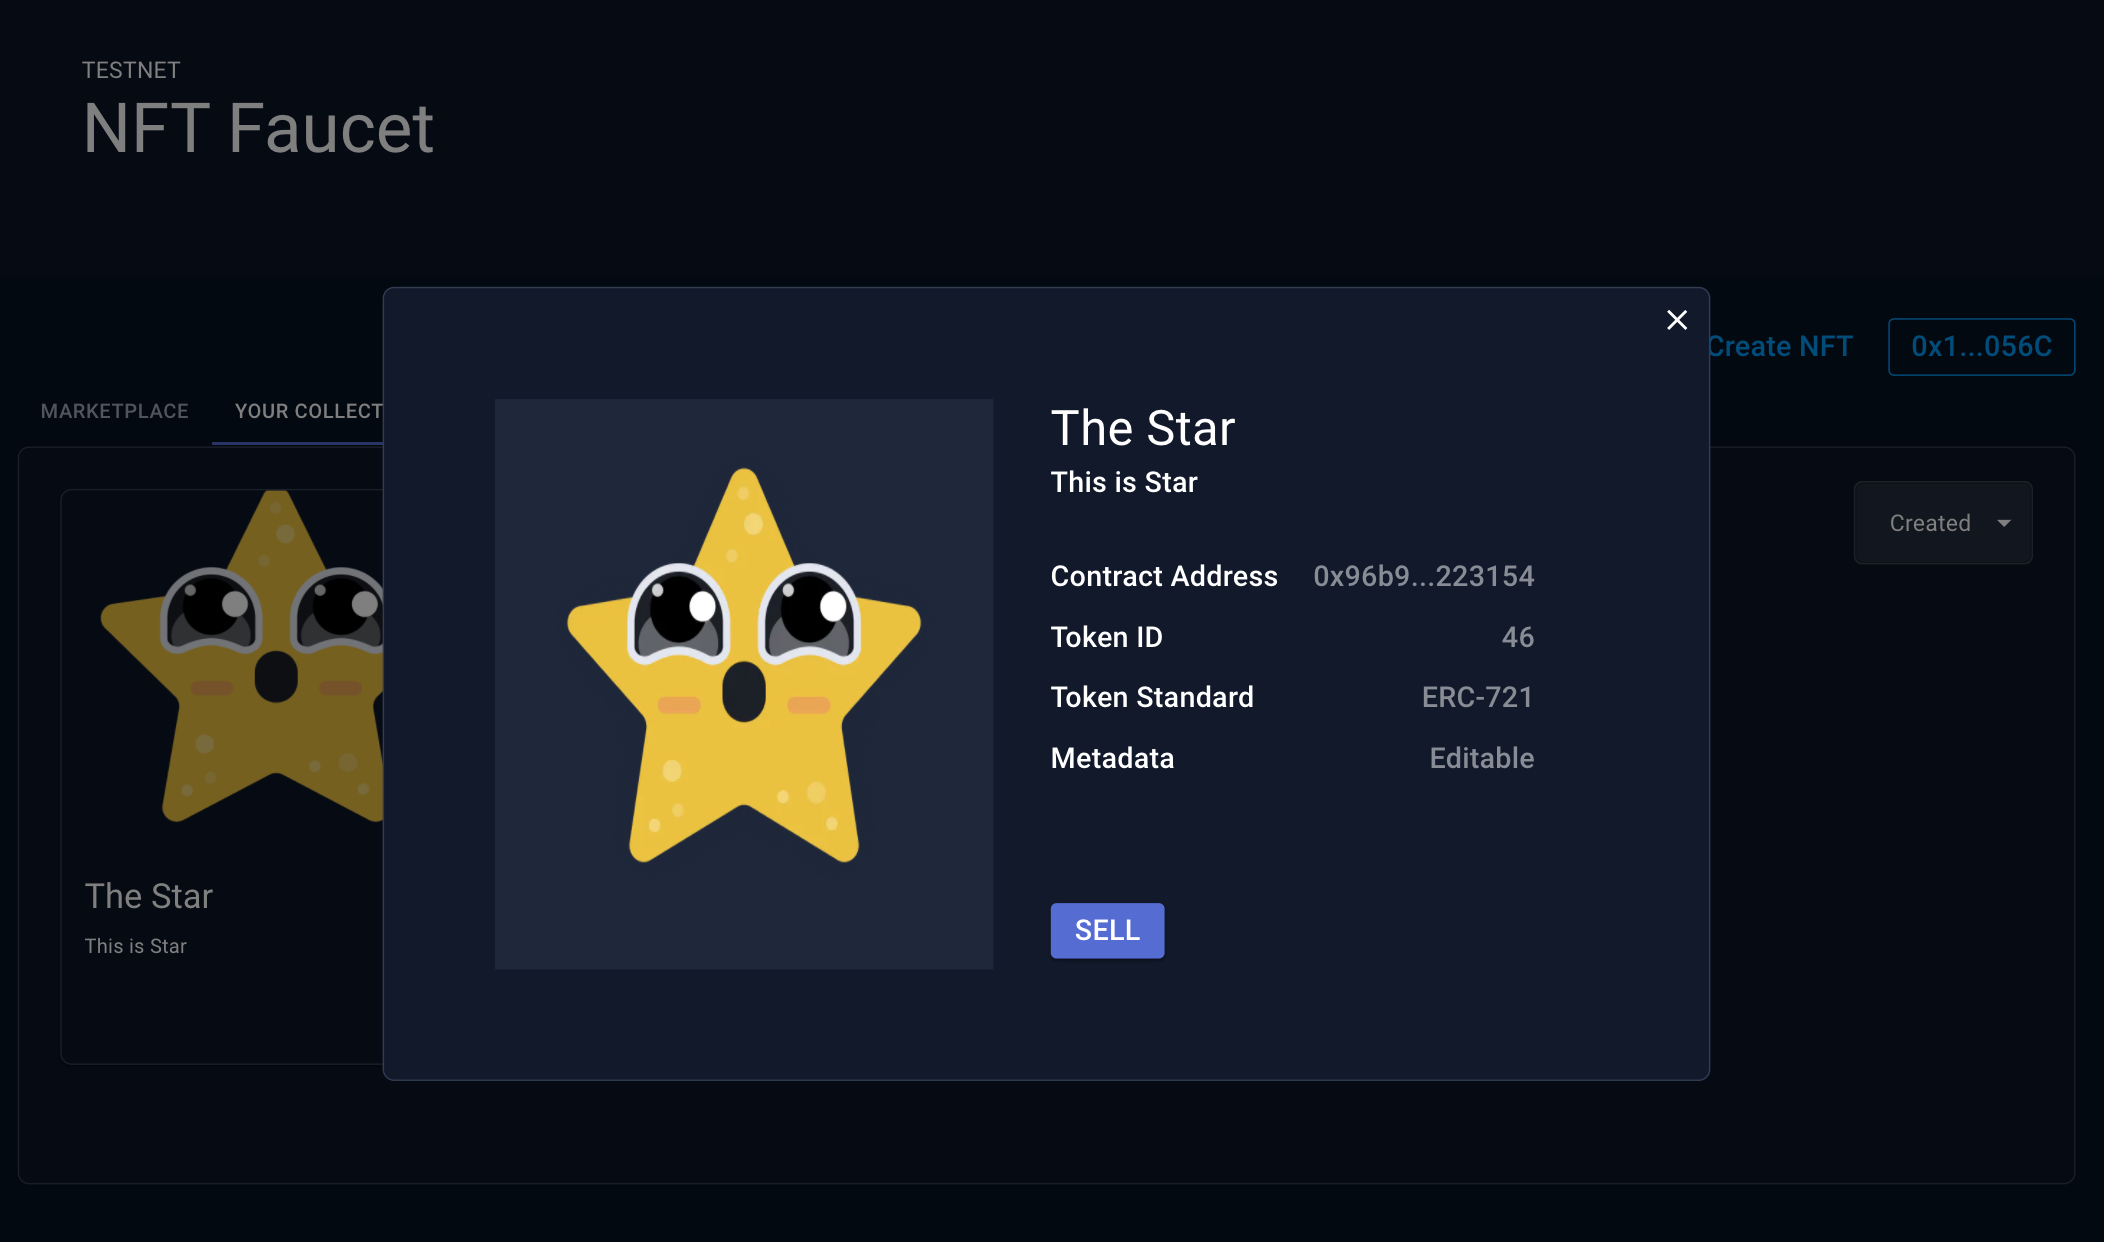
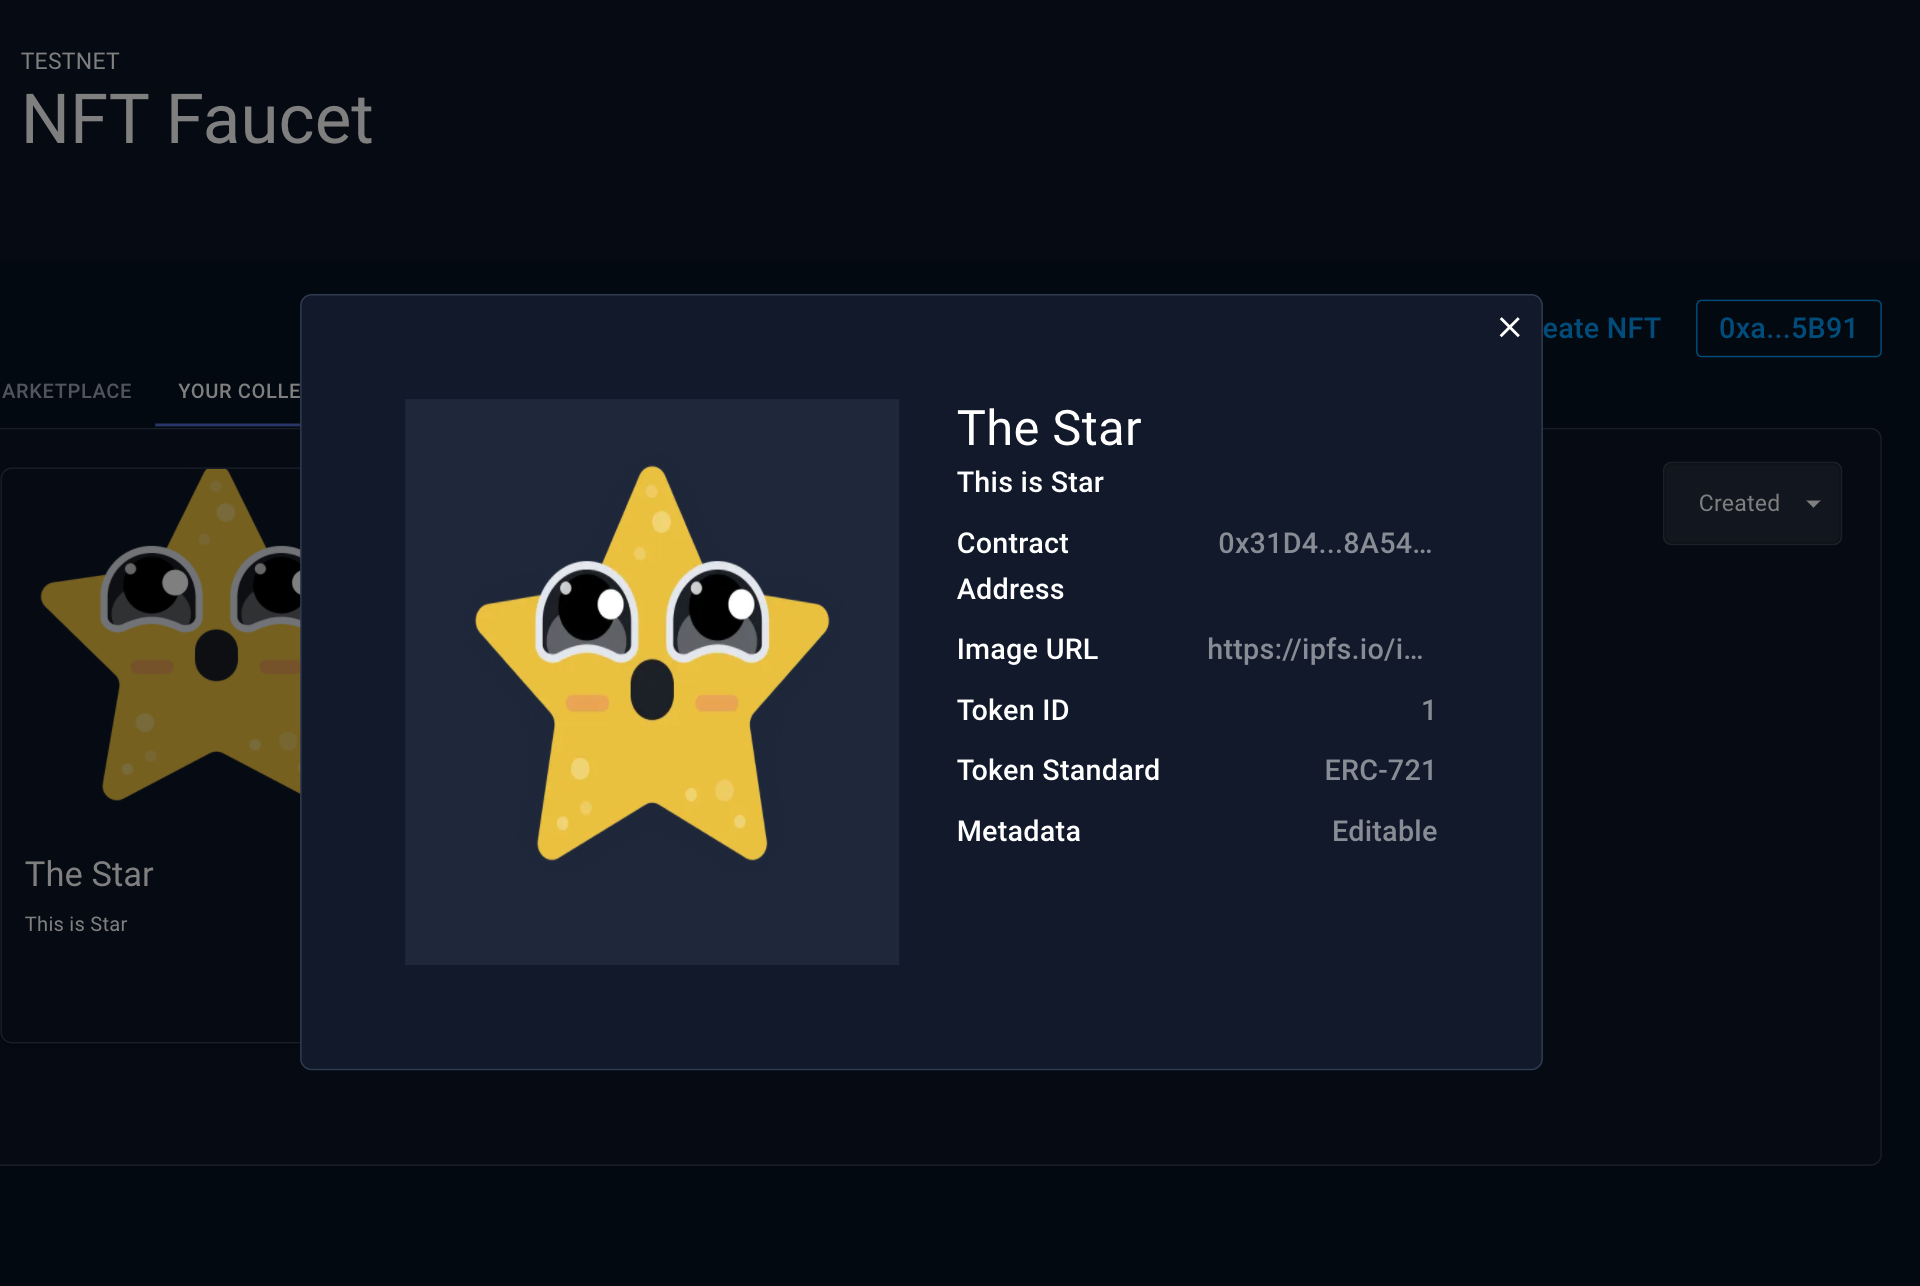
Update create nft step4,5

diff --git a/docs/getting-started/cronos-gamefi-integraton.md b/docs/getting-started/cronos-gamefi-integraton.md
@@ -243,8 +243,11 @@ contract My1155Token is ERC1155, Ownable {
 - Step 3. Create and sign the transaction after uploading the image
   <img src="./assets/cronos-gamefi-integration-nft-fauct-3.png" />
 
-- Step 4. Copy the contract address from the NFT modal
+- Step 4. Copy the contract address and image URL from the NFT modal
   <img src="./assets/cronos-gamefi-integration-nft-fauct-4.png" />
+
+- Step 5. Paste into the corresponding input box inside Unity inspector
+  <img src="./assets/cronos-gamefi-integration-step6-2.png" />
 
 ---
 
